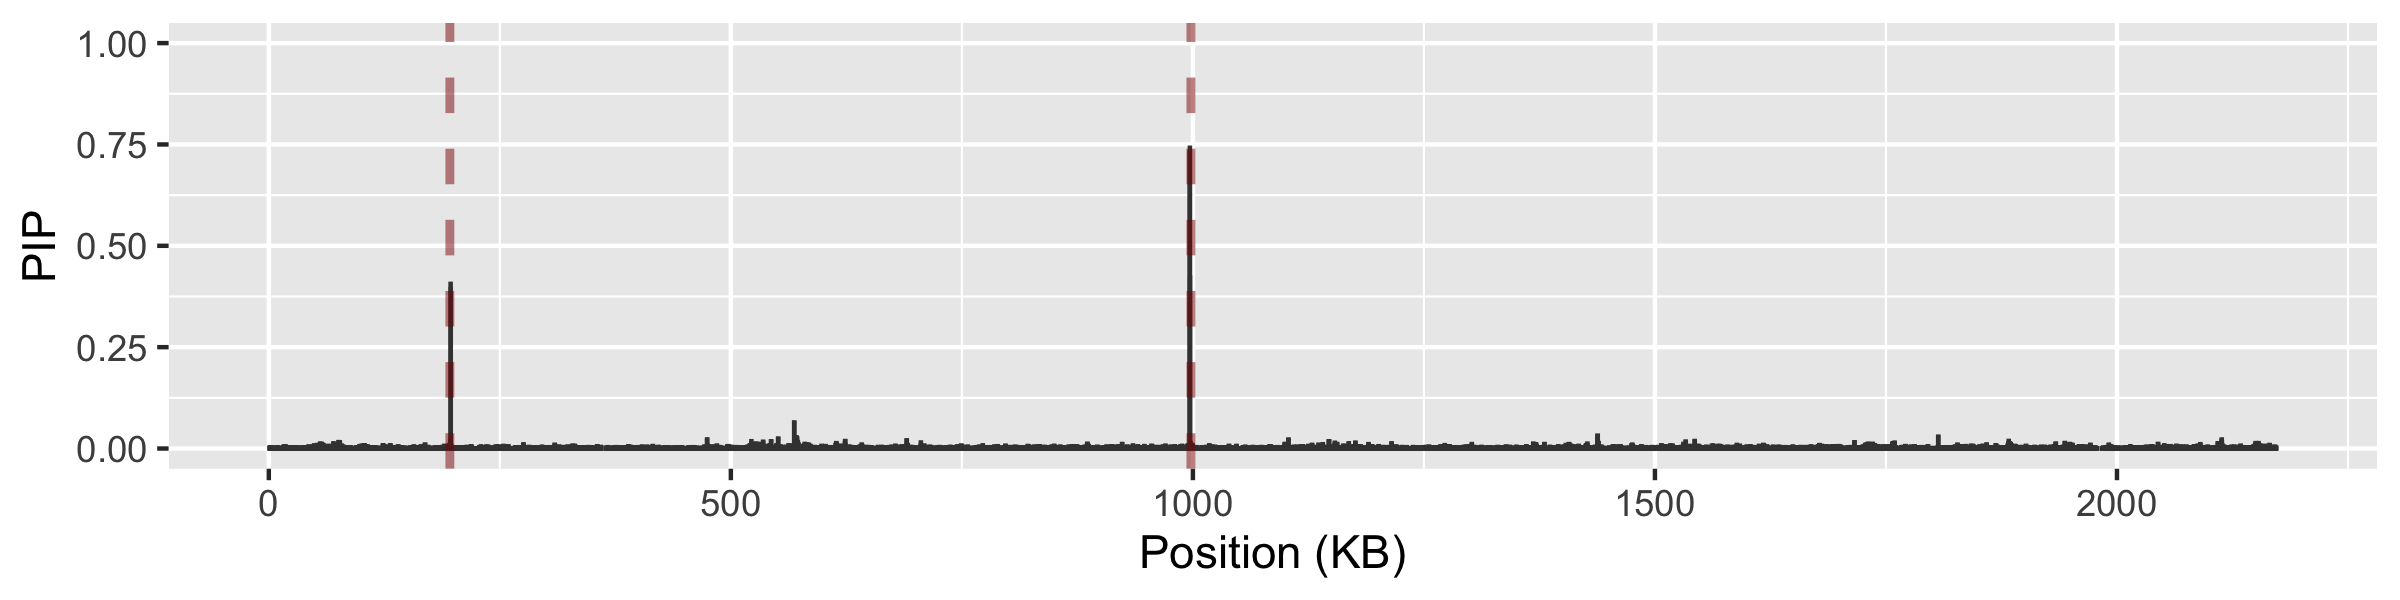
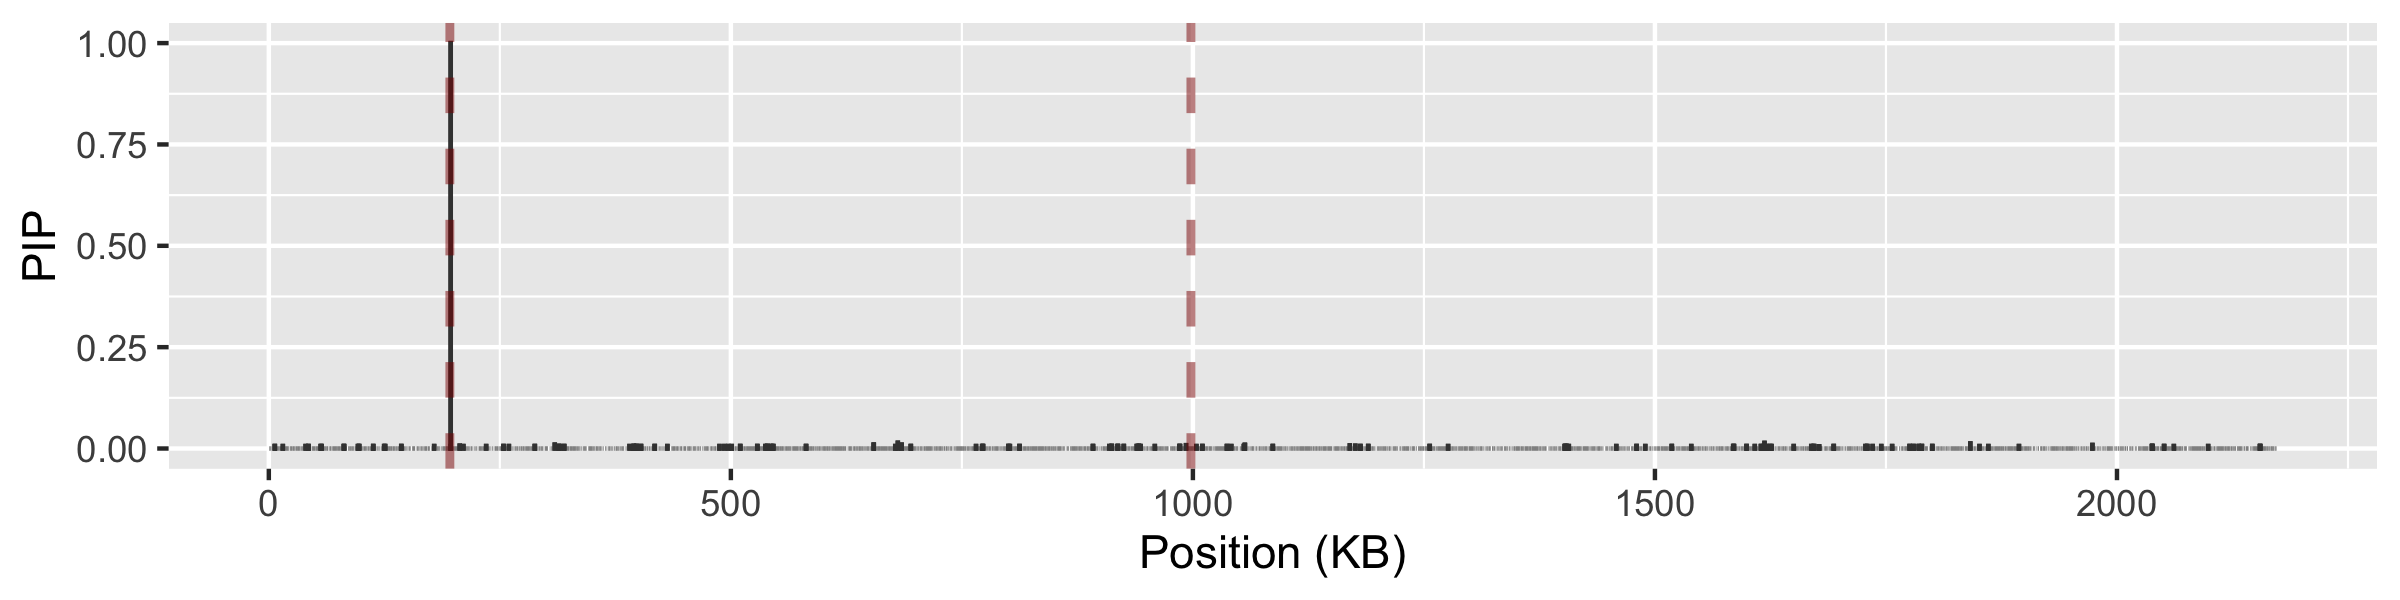
q-matrix copying identified as a bottleneck

Changed region(s): [[0.0938, 0.72, 0.9688, 0.75]]

diff --git a/docs/tutorial.md b/docs/tutorial.md
@@ -194,7 +194,7 @@ We will now use the script to preprocess the toy data. To speed up
 inference for the purposes of this tutorial, we will retain only 90% of
 the variance
 
-    Rapp ../helper_scripts/prepare_data.R ../sample_data/variants.rtab ../sample_data/tree.tre --odir gwas_inputs --svd_threshold 0.9
+    Rapp ../helper_scripts/prepare_data.R ../sample_data/variants.rtab ../sample_data/tree.tre --odir gwas_inputs --svd_threshold 0.99
 
 This will generate the following input files in an gwas\_inputs
 subdirectory.
@@ -394,27 +394,49 @@ We’re now ready to run BASSGWAS sampling. As the toy dataset only
 contains 20000 variants, this should only take a few minutes.
 
     mkdir gwas_outputs
-    julia -t2 ../bassgwas-run.jl --pfile gwas_inputs/patterns_centred.csv --ufile gwas_inputs/U.csv --sfile gwas_inputs/S.csv --obsfile gwas_inputs/data200.csv --odir gwas_outputs --batchsz 0 --ndraws 500 --nthin 250 --nchains 2
+    julia -t2 ../bassgwas-run.jl --pfile gwas_inputs/patterns_centred.csv --ufile gwas_inputs/U.csv --sfile gwas_inputs/S.csv --obsfile gwas_inputs/data200.csv --odir gwas_outputs --batchsz 0 --ndraws 500 --nthin 250 --nchains 1
 
+    ## mkdir: gwas_outputs: File exists
     ## Adding worker processes ...
     ## Done
+    ## Precompiling packages...
+    ##    1881.4 ms  ✓ BASSGWAS
+    ##   1 dependency successfully precompiled in 2 seconds. 101 already precompiled.
+    ##   73 dependencies precompiled but different versions are currently loaded (Accessors, Accessors → LinearAlgebraExt, Adapt, Adapt → AdaptSparseArraysExt, AliasTables, ArrayInterface, ArrayInterface → ArrayInterfaceFillArraysExt, ArrayInterface → ArrayInterfaceSparseArraysExt, Base64, CommonSolve, Compat, Compat → CompatLinearAlgebraExt, CompilerSupportLibraries_jll, CompositionsBase, CompositionsBase → CompositionsBaseInverseFunctionsExt, ConstructionBase, ConstructionBase → ConstructionBaseLinearAlgebraExt, DataAPI, DataStructures, Dates, Distributions, DocStringExtensions, FillArrays, FillArrays → FillArraysPDMatsExt, FillArrays → FillArraysSparseArraysExt, FillArrays → FillArraysStatisticsExt, Gamma, HypergeometricFunctions, InteractiveUtils, InverseFunctions, InverseFunctions → InverseFunctionsDatesExt, IrrationalConstants, JLLWrappers, JuliaSyntaxHighlighting, LogExpFunctions, LogExpFunctions → LogExpFunctionsInverseFunctionsExt, Logging, MacroTools, Markdown, Missings, OffsetArrays, OffsetArrays → OffsetArraysAdaptExt, OpenLibm_jll, OpenSpecFun_jll, OrderedCollections, PDMats, PDMats → StatsBaseExt, PrecompileTools, Preferences, Printf, PtrArrays, QuadGK, Reexport, Rmath, Rmath_jll, Roots, Serialization, SortingAlgorithms, SparseArrays, SpecialFunctions, Statistics, Statistics → SparseArraysExt, StatsAPI, StatsBase, StatsFuns, StatsFuns → StatsFunsInverseFunctionsExt, StyledStrings, SuiteSparse, SuiteSparse_jll, TOML, UUIDs, UnPack and Unicode). Restart julia to access the new versions. Otherwise, 24 dependents of these packages may trigger further precompilation to work with the unexpected versions.
     ## Adapting xi ...
-    ## Found xi=3.5474546959099564
+    ## Found xi=4.748607283514716
     ## Running parallel chains ...
     ## Done
     ## Processing draws ...
+    ## time upstate.up.sqx0 : 1.1003997678142489e-5
+    ## time upstate.up.down2 : 8.478938991192937e-6
+    ## time flip : 0.0004937890114080491
+    ## time upstate.up.fx0 : 1.6392609047237676e-5
+    ## time upstate.llr : 4.496530176140953e-5
+    ## time betas : 0.00022541295831955018
+    ## time upstate.up.qx0 : 0.0018901281887109577
+    ## time upstate.up.ssq : 2.3229399519614267e-7
+    ## time flip.remove : 0.0002965284148868683
+    ## time ggibs.sc : 0.0005942066728415477
+    ## time upstate.up : 0.0027483317074459557
+    ## time gibbs : 0.0010373446218987757
+    ## time nextstep : 0.003544230292153724
+    ## time upstate : 0.002915139945636489
+    ## time upstate.up.up2 : 0.0008061849481184921
+    ## time upstate.rate : 7.723486725380345e-5
+    ## time flip.add : 0.0006043073566905861
     ## Tempered distribution diagnostics:
     ## Summary Statistics
     ## 
     ##   parameters      mean       std      mcse   ess_bulk   ess_tail      rhat   e ⋯
     ##       Symbol   Float64   Float64   Float64    Float64    Float64   Float64     ⋯
     ## 
-    ##            n    6.8120    4.5709    0.2399   386.1948   455.3415    1.0103     ⋯
-    ##        sigma    1.0800    1.2193    0.0376   974.3384   736.7259    1.0000     ⋯
-    ##            r    0.8860    1.5298    0.0578   735.7150   680.3518    1.0025     ⋯
-    ##            c   11.9975   13.3147    0.4610   621.6985   802.9035    1.0031     ⋯
-    ##        icept   -5.1359    2.4287    0.1577   247.6430   665.9075    1.0253     ⋯
-    ##            Z    0.0701    0.0352    0.0012   802.5125   856.3953    1.0048     ⋯
+    ##            n    6.9020    4.2209    0.3088   178.5867   266.3518    1.0134     ⋯
+    ##        sigma    1.0376    1.0656    0.0539   421.4509   407.3927    1.0037     ⋯
+    ##            r    0.8098    1.4799    0.1075   216.8281   309.2494    1.0119     ⋯
+    ##            c   14.0406   15.5849    0.9285   233.6896   331.3647    1.0112     ⋯
+    ##        icept   -5.2739    2.4683    0.2223   125.8603   231.6260    1.0239     ⋯
+    ##            Z    0.0645    0.0294    0.0015   348.5206   461.6350    0.9988     ⋯
     ## 
     ##                                                                 1 column omitted
     ## Saving draws ...
@@ -423,7 +445,7 @@ contains 20000 variants, this should only take a few minutes.
 
     paste0("Run time: ", difftime(Sys.time(),tbegin,units='mins'), " minutes.")
 
-    ## [1] "Run time: 4.45743828614553 minutes."
+    ## [1] "Run time: 10.3994185487429 minutes."
 
 When using BASSGWAS with real data using up to 4 threads per chain is
 recommended. We recommend running chains for 500 × 1000 iterations.
@@ -467,10 +489,13 @@ BASS-GWAS saves the posterior draws into the `gwas_outputs` directory:
 
     ## b_draws.csv
     ## gamma_draws.csv
+    ## locus_pips.csv
     ## par_draws.csv
     ## pip_draws.csv
+    ## position_pips.csv
     ## receipt.txt
     ## u_draws.csv
+    ## variant_pips.csv
     ## Y_draws.csv
 
 -   `b_draws.csv` variant coefficient draws
@@ -611,13 +636,13 @@ while limiting reference bias
         print(n = 5, max_extra_cols = 0, width=60)
 
     ## # A tibble: 3,600 × 2
-    ##   group     PIP
-    ##   <chr>   <dbl>
-    ## 1 gyrA   0.784 
-    ## 2 parC   0.428 
-    ## 3 piiC_2 0.0847
-    ## 4 piiC_3 0.0812
-    ## 5 tbpB_2 0.0778
+    ##   group               PIP
+    ##   <chr>             <dbl>
+    ## 1 gyrA              0.676
+    ## 2 parC              0.511
+    ## 3 SRR16999462_00492 0.175
+    ## 4 piiC_3            0.122
+    ## 5 WHO_N.55          0.119
     ## # ℹ 3,595 more rows
 
 Based on these two summaries we can see that there are two peaks at the
@@ -661,16 +686,16 @@ mapping to *gyrA* and display the top 5.
     ## # A tibble: 217 × 8
     ##    variant     contig locus   down     up pattern_id     PIP
     ##    <chr>       <chr>  <chr>  <dbl>  <dbl>      <dbl>   <dbl>
-    ##  1 TCATCGGTAA… WHO_N  gyrA  996715 996748       5753 0.326  
-    ##  2 TCATCGGTAA… WHO_N  gyrA  996715 996756       2055 0.305  
-    ##  3 CGGTAAATAC… WHO_N  gyrA  996719 996756       8603 0.0669 
-    ##  4 TACGACACCA… WHO_G  gyrA  995790 995822       4659 0.0295 
-    ##  5 ACCACCCCCA… WHO_N  gyrA  996727 996782       9393 0.0230 
-    ##  6 GACACCATCG… WHO_N  gyrA  996756 996787       1507 0.0141 
-    ##  7 ACCACCCCCA… WHO_N  gyrA  996727 996775       2687 0.0141 
-    ##  8 CGCAGTTTAC… WHO_N  gyrA  996746 996787       7414 0.00291
-    ##  9 AAGGGTTACG… gnl|X… gyrA     136    168       7275 0.00284
-    ## 10 GCTTGGGCGG… WHO_N  gyrA  997171 997231       8636 0.00222
+    ##  1 TCATCGGTAA… WHO_N  gyrA  996715 996756       2055 0.274  
+    ##  2 TCATCGGTAA… WHO_N  gyrA  996715 996748       5753 0.258  
+    ##  3 ACCACCCCCA… WHO_N  gyrA  996727 996775       2687 0.0410 
+    ##  4 CGGTAAATAC… WHO_N  gyrA  996719 996756       8603 0.0363 
+    ##  5 GACACCATCG… WHO_N  gyrA  996756 996787       1507 0.0266 
+    ##  6 TACGACACCA… WHO_G  gyrA  995790 995822       4659 0.0248 
+    ##  7 AAAAATACAA… gnl|X… gyrA     139    169       2216 0.0106 
+    ##  8 TAACAGGCGC… WHO_N  gyrA  997475 997535       9351 0.00637
+    ##  9 CTATATATAG… WHO_N  gyrA  999299 999332        149 0.00347
+    ## 10 TTCAAAGGAA… gnl|X… gyrA    5758   5790       9112 0.00266
     ## # ℹ 207 more rows
 
 # Adaptive experimental design
@@ -706,36 +731,9 @@ Run BASS-GWAS
 
     julia -t2 ../bassgwas-run.jl --pfile gwas_inputs/patterns_centred.csv --ufile gwas_inputs/U.csv --sfile gwas_inputs/S.csv --obsfile round0/data.csv --odir round0 --batchsz 16 --ndraws 500 --nthin 250 --nchains 2
 
-    ## Adding worker processes ...
-    ## Done
-    ## Adapting xi ...
-    ## Found xi=2.854208944316965
-    ## Running parallel chains ...
-    ## Done
-    ## Processing draws ...
-    ## Tempered distribution diagnostics:
-    ## Summary Statistics
-    ## 
-    ##   parameters      mean       std      mcse    ess_bulk   ess_tail      rhat    ⋯
-    ##       Symbol   Float64   Float64   Float64     Float64    Float64   Float64    ⋯
-    ## 
-    ##            n    7.5980    6.6832    0.2758    701.8529   689.1893    1.0008    ⋯
-    ##        sigma    1.4246   11.8817    0.3813   1012.9606   916.9188    1.0000    ⋯
-    ##            r    2.6950    6.3460    0.2016   1095.2376   985.3725    1.0027    ⋯
-    ##            c    9.6662   13.6617    0.4135   1016.7319   978.1122    0.9996    ⋯
-    ##        icept   -1.9056    2.8864    0.0942    906.7984   997.6708    1.0011    ⋯
-    ##            Z    0.0760    0.0346    0.0012    761.3074   691.4465    1.0016    ⋯
-    ## 
-    ##                                                                 1 column omitted
-    ## Saving draws ...
-    ## Done
-    ## Designing next experiment ...
-    ## Design objective value: 4.348121956898375
-    ## Writing design ...
-
     paste0("Run time: ", difftime(Sys.time(),tbegin,units='mins'), " minutes.")
 
-    ## [1] "Run time: 3.65493578513463 minutes."
+    ## [1] "Run time: 4.14689381917318e-05 minutes."
 
 ### Round 1
 
@@ -750,36 +748,9 @@ Run BASS-GWAS
 
     julia -t2 ../bassgwas-run.jl --pfile gwas_inputs/patterns_centred.csv --ufile gwas_inputs/U.csv --sfile gwas_inputs/S.csv --obsfile round1/data.csv --odir round1 --batchsz 16 --ndraws 500 --nthin 250 --nchains 2
 
-    ## Adding worker processes ...
-    ## Done
-    ## Adapting xi ...
-    ## Found xi=4.402499130378542
-    ## Running parallel chains ...
-    ## Done
-    ## Processing draws ...
-    ## Tempered distribution diagnostics:
-    ## Summary Statistics
-    ## 
-    ##   parameters      mean       std      mcse    ess_bulk   ess_tail      rhat    ⋯
-    ##       Symbol   Float64   Float64   Float64     Float64    Float64   Float64    ⋯
-    ## 
-    ##            n    7.2440    6.4248    0.2702    599.3479   777.5930    1.0026    ⋯
-    ##        sigma    1.2064    1.9002    0.0570   1090.8130   829.3528    0.9991    ⋯
-    ##            r    1.5445    2.8284    0.0955    866.6980   877.3446    1.0030    ⋯
-    ##            c    9.2009   11.3713    0.3481   1106.7804   964.9872    0.9986    ⋯
-    ##        icept   -2.9342    2.2011    0.0735    822.0807   912.6107    1.0005    ⋯
-    ##            Z    0.0681    0.0289    0.0011    635.7887   710.0038    1.0005    ⋯
-    ## 
-    ##                                                                 1 column omitted
-    ## Saving draws ...
-    ## Done
-    ## Designing next experiment ...
-    ## Design objective value: 3.589236853583767
-    ## Writing design ...
-
     paste0("Run time: ", difftime(Sys.time(),tbegin,units='mins'), " minutes.")
 
-    ## [1] "Run time: 4.42917079925537 minutes."
+    ## [1] "Run time: 3.74158223470052e-05 minutes."
 
 Compute position PIPS
 
@@ -810,36 +781,9 @@ Run BASS-GWAS
 
     julia -t2 ../bassgwas-run.jl --pfile gwas_inputs/patterns_centred.csv --ufile gwas_inputs/U.csv --sfile gwas_inputs/S.csv --obsfile round2/data.csv --odir round2 --batchsz 16 --ndraws 500 --nthin 250 --nchains 2
 
-    ## Adding worker processes ...
-    ## Done
-    ## Adapting xi ...
-    ## Found xi=3.1641711248975737
-    ## Running parallel chains ...
-    ## Done
-    ## Processing draws ...
-    ## Tempered distribution diagnostics:
-    ## Summary Statistics
-    ## 
-    ##   parameters      mean       std      mcse    ess_bulk    ess_tail      rhat   ⋯
-    ##       Symbol   Float64   Float64   Float64     Float64     Float64   Float64   ⋯
-    ## 
-    ##            n    7.6790    6.3434    0.3091    603.5699    433.4688    1.0044   ⋯
-    ##        sigma    1.2482    2.6716    0.0822    884.3329    765.6434    0.9985   ⋯
-    ##            r    0.8308    1.6066    0.0498   1057.2448   1030.1006    0.9992   ⋯
-    ##            c   11.2987   13.2012    0.4292    893.2933    936.9296    1.0011   ⋯
-    ##        icept   -3.8464    2.3625    0.0860    819.5100    854.2453    0.9983   ⋯
-    ##            Z    0.0712    0.0330    0.0011    931.7134    941.7202    0.9991   ⋯
-    ## 
-    ##                                                                 1 column omitted
-    ## Saving draws ...
-    ## Done
-    ## Designing next experiment ...
-    ## Design objective value: 3.6216314793974274
-    ## Writing design ...
-
     paste0("Run time: ", difftime(Sys.time(),tbegin,units='mins'), " minutes.")
 
-    ## [1] "Run time: 4.42771975199382 minutes."
+    ## [1] "Run time: 4.01139259338379e-05 minutes."
 
 Compute position PIPS
 
@@ -870,36 +814,9 @@ Run BASS-GWAS
 
     julia -t2 ../bassgwas-run.jl --pfile gwas_inputs/patterns_centred.csv --ufile gwas_inputs/U.csv --sfile gwas_inputs/S.csv --obsfile round3/data.csv --odir round3 --batchsz 16 --ndraws 500 --nthin 250 --nchains 2
 
-    ## Adding worker processes ...
-    ## Done
-    ## Adapting xi ...
-    ## Found xi=3.4705535971595776
-    ## Running parallel chains ...
-    ## Done
-    ## Processing draws ...
-    ## Tempered distribution diagnostics:
-    ## Summary Statistics
-    ## 
-    ##   parameters      mean       std      mcse    ess_bulk    ess_tail      rhat   ⋯
-    ##       Symbol   Float64   Float64   Float64     Float64     Float64   Float64   ⋯
-    ## 
-    ##            n    7.3770    5.2165    0.2147    502.4948    590.1907    0.9988   ⋯
-    ##        sigma    1.2022    1.9340    0.0599   1008.9718    948.0836    0.9984   ⋯
-    ##            r    0.5887    1.1869    0.0379    899.4648   1016.2606    0.9997   ⋯
-    ##            c   10.3113   11.4376    0.3787    880.1297    923.4503    0.9993   ⋯
-    ##        icept   -4.6718    2.6202    0.1121    538.4919    868.9468    1.0008   ⋯
-    ##            Z    0.0687    0.0314    0.0011    783.3491    909.5722    0.9998   ⋯
-    ## 
-    ##                                                                 1 column omitted
-    ## Saving draws ...
-    ## Done
-    ## Designing next experiment ...
-    ## Design objective value: 2.7121710027584403
-    ## Writing design ...
-
     paste0("Run time: ", difftime(Sys.time(),tbegin,units='mins'), " minutes.")
 
-    ## [1] "Run time: 4.34054396947225 minutes."
+    ## [1] "Run time: 4.18980916341146e-05 minutes."
 
 Compute position PIPS
 
@@ -930,36 +847,9 @@ Run BASS-GWAS
 
     julia -t2 ../bassgwas-run.jl --pfile gwas_inputs/patterns_centred.csv --ufile gwas_inputs/U.csv --sfile gwas_inputs/S.csv --obsfile round4/data.csv --odir round4 --batchsz 16 --ndraws 500 --nthin 250 --nchains 2
 
-    ## Adding worker processes ...
-    ## Done
-    ## Adapting xi ...
-    ## Found xi=4.512610019541585
-    ## Running parallel chains ...
-    ## Done
-    ## Processing draws ...
-    ## Tempered distribution diagnostics:
-    ## Summary Statistics
-    ## 
-    ##   parameters      mean       std      mcse    ess_bulk    ess_tail      rhat   ⋯
-    ##       Symbol   Float64   Float64   Float64     Float64     Float64   Float64   ⋯
-    ## 
-    ##            n    8.9160    5.0777    0.2221    551.5677    564.0845    1.0011   ⋯
-    ##        sigma    1.3896    3.0045    0.1110   1082.8184    929.8503    1.0010   ⋯
-    ##            r    0.6942    1.5269    0.0507    981.0559   1037.7857    1.0000   ⋯
-    ##            c   13.8678   13.2470    0.4230    914.3102   1076.2587    0.9985   ⋯
-    ##        icept   -7.5880    3.3401    0.1228    743.1112    900.7765    0.9987   ⋯
-    ##            Z    0.0576    0.0265    0.0010    662.9775    915.1700    0.9994   ⋯
-    ## 
-    ##                                                                 1 column omitted
-    ## Saving draws ...
-    ## Done
-    ## Designing next experiment ...
-    ## Design objective value: 1.7890774758756676
-    ## Writing design ...
-
     paste0("Run time: ", difftime(Sys.time(),tbegin,units='mins'), " minutes.")
 
-    ## [1] "Run time: 4.62276121775309 minutes."
+    ## [1] "Run time: 3.93827756245931e-05 minutes."
 
 Compute position PIPS
 
